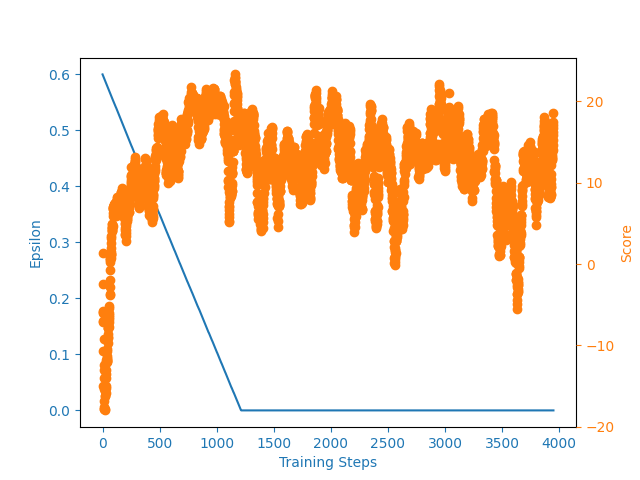
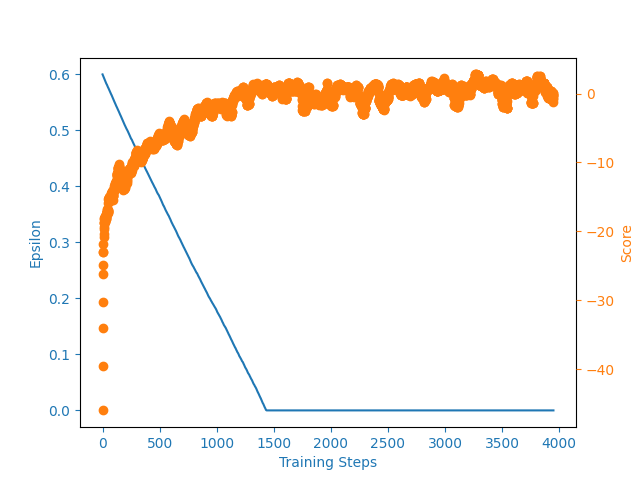
fixed

diff --git a/main.py b/main.py
@@ -68,9 +68,9 @@ epsilon_dec = 1e-5
 mem_size = 10000
 batch_size = 32
 checkpoint_dir = 'models'
-name = 'ddqn_simple_random_start'
+name = 'ddqn_simple_start'
 
-env = Environment(random_starting=True)
+env = Environment(random_starting=False)
 
 n_states = env.num_states
 n_actions = env.num_actions
@@ -191,7 +191,7 @@ if __name__ == '__main__':
         if i % 50 == 0:
             print('############################\nepoch', i, '50 games avg SCORE:', np.mean(scores[-50:]), '50 games win pct',
                   wins/50, '\n##################\n')
-            plot_scores_testing(scores, 50, 'plots/' + name + '_eval.png')
+            plot_scores_testing(scores, 50, 'plots/' + name + 'eval.png')
             wins = 0
 
 
